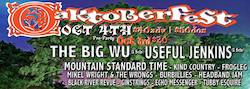
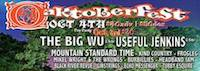
updated some stuff, removed old show, added big poster for cd party

diff --git a/news.html b/news.html
@@ -169,7 +169,7 @@
 					</div>
 				</div>
 				<hr />	 -->			
-				<div class="content-container">
+<!-- 				<div class="content-container">
 					<div class="show-items">
 						<div class="show-item"><img src="./img/shows/2014-09-valhalla.jpg" alt="Valhalla"></div>
 						<div class="show-item">
@@ -184,7 +184,7 @@
 						</div>
 					</div>
 				</div>
-				<hr />
+				<hr /> -->
 				<div class="content-container">
 					<div class="show-items">
 						<div class="show-item"><img src="./img/shows/2014-10-oaktoberfest.jpg" alt="Oaktoberfest"></div>
@@ -211,17 +211,22 @@
 								<span class="muted">| Minneapolis, MN</span>
 							</p>
 							<p class="band-desc-inst">October 25, 2014</p>
-							<p>
-								Tickets are 
-								<a href="http://www.icehousempls.com/events/ginstrings-cd-release-headband-jam/">
-									here.
-								</a>
-							</p>
 							<p> 
 								Come see
 								<a href="https://www.facebook.com/headbandjam">Headband Jam</a> 
-								too!
+								too.
 							</p>
+						</div>
+					</div>
+					<p class="u-larger pad center">
+						Tickets are 
+						<a href="http://www.icehousempls.com/events/ginstrings-cd-release-headband-jam/">
+							here!
+						</a>
+					</p>
+					<div class="u-center-div-outer">
+						<div class="u-center-div-inner-larger">
+							<img src="./img/shows/2014-10-cdparty.jpg" alt="IT'S OUR PARTY!">
 						</div>
 					</div>
 				</div>

diff --git a/styles.css b/styles.css
@@ -321,6 +321,11 @@ footer {
 	width: 200px;
 	margin: 0 auto;
 }
+/* sweet jesus we need a style audit soon */
+.u-center-div-inner-larger {
+	width: 400px;
+	margin: 0 auto;
+}
 
 /* Magenta/pink */
 /*rgba(180,46,97,1)*/
